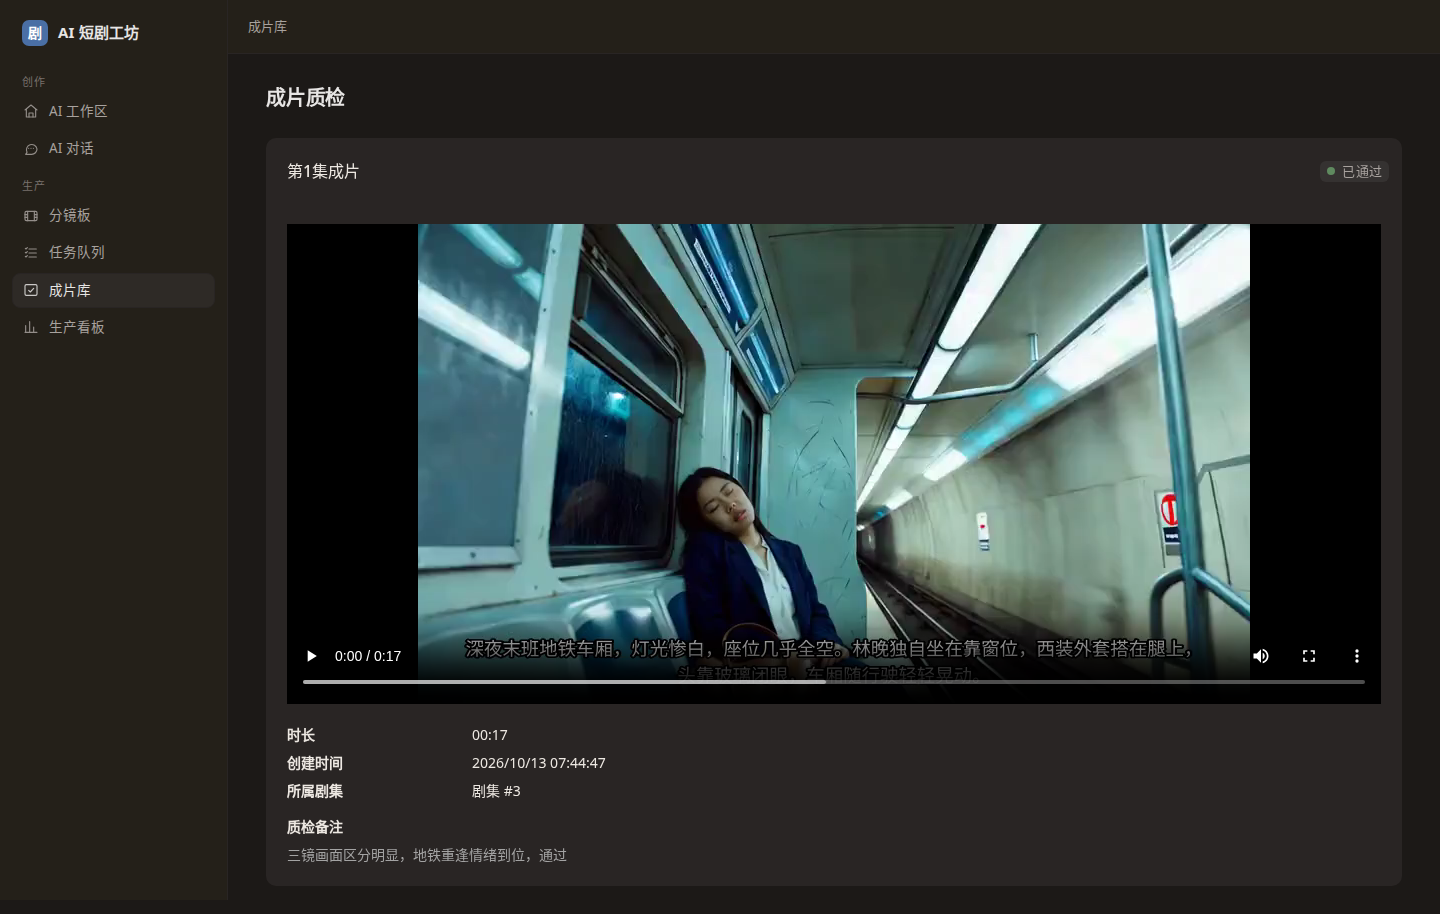
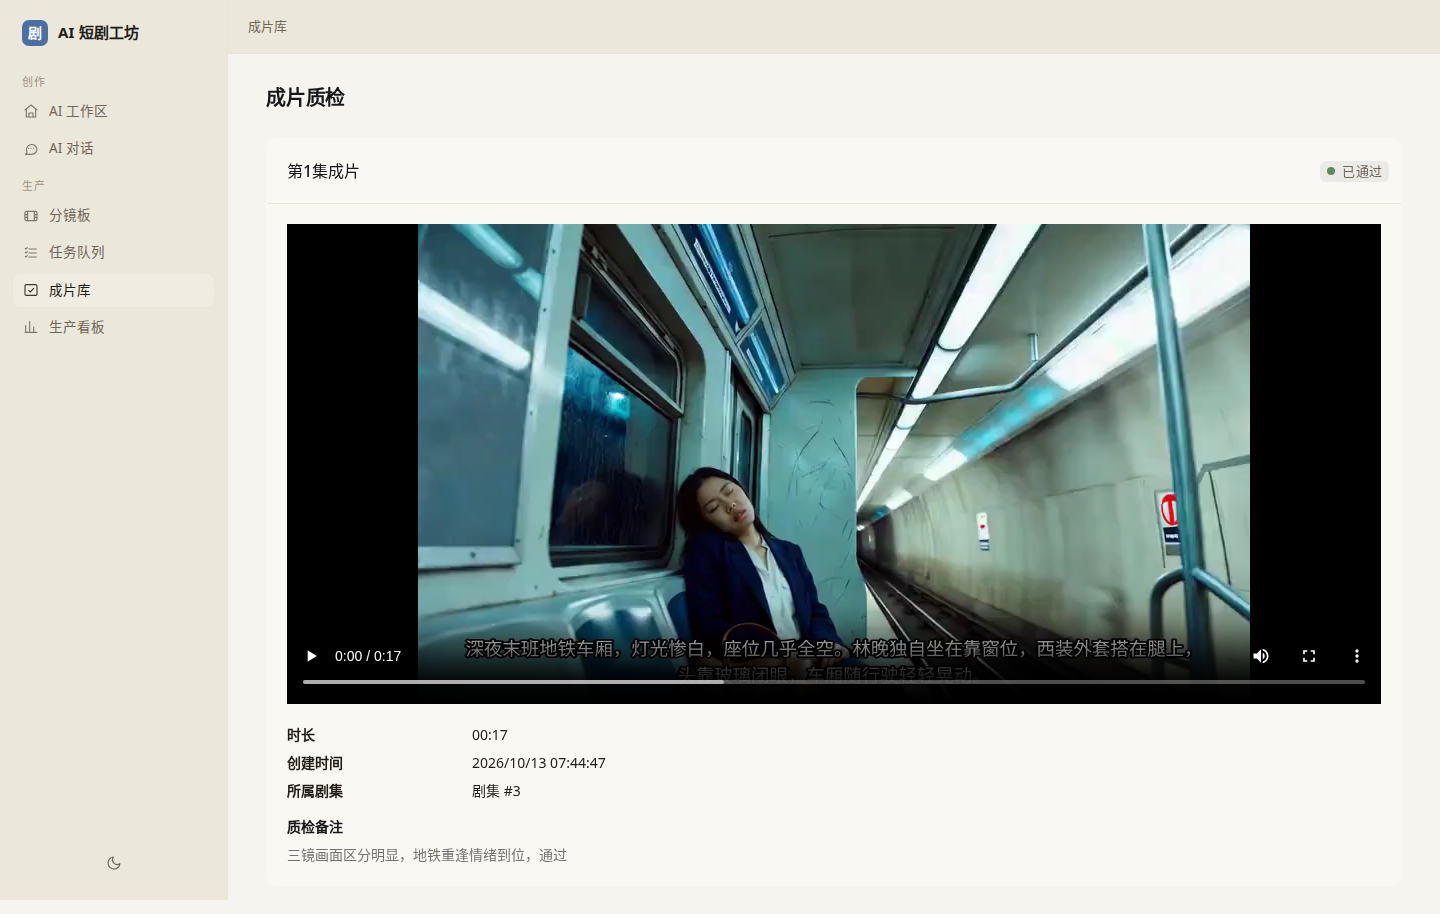
feat(drama-factory): 默认亮色暖纸主题——深色保留可切换
- data-bs-theme 默认 light；深色暖炭主题完整保留
- 亮色走暖纸路线（对标 Claude 浅色）：暖纸底 #F5F4EE、深一档奶油侧边栏、
  几乎无边框、靠明度微差分层；正文对比度 ~14:1
- 侧边栏底部太阳/月亮切换钮，localStorage('df-theme') 持久化；
  <head> 内联预置脚本防闪烁
- app.css 新增 [data-bs-theme=light] 变量体系；
  theme.css 新增 Tabler 亮色暖化覆盖
- 7 页亮色重截亲眼验收（真实数据《最后一班地铁》），
  深色抽查 2 页无回归；零 backdrop-filter
- mvn test 37/38：testFullPipeline 单跑通过（有/无本改动各一次），
  属 flaky/与 v2.3 后端状态相关，非本轮前端改动导致

diff --git a/drama-factory/src/main/resources/static/shell.js b/drama-factory/src/main/resources/static/shell.js
@@ -17,8 +17,18 @@
     search: '<svg viewBox="0 0 24 24" fill="none" stroke="currentColor" stroke-width="1.7" stroke-linecap="round"><circle cx="11" cy="11" r="7"/><path d="m20 20-3.5-3.5"/></svg>',
     plus: '<svg viewBox="0 0 24 24" fill="none" stroke="currentColor" stroke-width="1.7" stroke-linecap="round"><path d="M12 5v14M5 12h14"/></svg>',
     send: '<svg viewBox="0 0 24 24" fill="none" stroke="currentColor" stroke-width="1.7" stroke-linecap="round" stroke-linejoin="round"><path d="m4 11 16-7-7 16-2.5-6.5L4 11z"/></svg>',
-    spark: '<svg viewBox="0 0 24 24" fill="none" stroke="currentColor" stroke-width="1.7" stroke-linecap="round" stroke-linejoin="round"><path d="M12 3v4M12 17v4M3 12h4M17 12h4M6 6l2.5 2.5M15.5 15.5 18 18M18 6l-2.5 2.5M8.5 15.5 6 18"/></svg>'
+    spark: '<svg viewBox="0 0 24 24" fill="none" stroke="currentColor" stroke-width="1.7" stroke-linecap="round" stroke-linejoin="round"><path d="M12 3v4M12 17v4M3 12h4M17 12h4M6 6l2.5 2.5M15.5 15.5 18 18M18 6l-2.5 2.5M8.5 15.5 6 18"/></svg>',
+    sun: '<svg viewBox="0 0 24 24" fill="none" stroke="currentColor" stroke-width="1.7" stroke-linecap="round" stroke-linejoin="round"><circle cx="12" cy="12" r="4"/><line x1="12" y1="2" x2="12" y2="4.5"/><line x1="12" y1="19.5" x2="12" y2="22"/><line x1="2" y1="12" x2="4.5" y2="12"/><line x1="19.5" y1="12" x2="22" y2="12"/><line x1="4.9" y1="4.9" x2="6.7" y2="6.7"/><line x1="17.3" y1="17.3" x2="19.1" y2="19.1"/><line x1="4.9" y1="19.1" x2="6.7" y2="17.3"/><line x1="17.3" y1="6.7" x2="19.1" y2="4.9"/></svg>',
+    moon: '<svg viewBox="0 0 24 24" fill="none" stroke="currentColor" stroke-width="1.7" stroke-linecap="round" stroke-linejoin="round"><path d="M21 12.8A9 9 0 1 1 11.2 3a7 7 0 0 0 9.8 9.8z"/></svg>'
   };
+
+  /* ---- 主题切换：深色显示太阳（点按切亮色），亮色显示月亮（点按切深色） ---- */
+  function renderThemeIcon() {
+    var btn = document.getElementById('themeToggle');
+    if (!btn) return;
+    var t = document.documentElement.getAttribute('data-bs-theme');
+    btn.innerHTML = (t === 'dark') ? ICONS.sun : ICONS.moon;
+  }
 
   var NAV = [
     { id: 'index', href: '/index.html', label: 'AI 工作区', icon: 'home', kbd: 'G H' },
@@ -65,7 +75,8 @@
       '<div class="sidebar-label">生产</div>' +
       '<nav class="sidebar-nav">' +
         navLink(NAV[2], cur) + navLink(NAV[3], cur) + navLink(NAV[4], cur) + navLink(NAV[5], cur) +
-      '</nav>';
+      '</nav>' +
+      '<div class="sidebar-footer"><button id="themeToggle" class="theme-toggle" title="切换亮色/深色" aria-label="切换主题"></button></div>';
 
     /* 主列 */
     var main = document.createElement('div');
@@ -95,6 +106,18 @@
       if (n.nodeName === 'SCRIPT') { body.appendChild(n); }
       else { content.appendChild(n); }
     });
+
+    /* 主题切换：翻转 data-bs-theme 并持久化到 localStorage */
+    var themeToggle = document.getElementById('themeToggle');
+    if (themeToggle) {
+      themeToggle.onclick = function () {
+        var next = (document.documentElement.getAttribute('data-bs-theme') === 'dark') ? 'light' : 'dark';
+        document.documentElement.setAttribute('data-bs-theme', next);
+        try { localStorage.setItem('df-theme', next); } catch (e) {}
+        renderThemeIcon();
+      };
+    }
+    renderThemeIcon();
   }
 
   function navLink(n, cur) {

diff --git a/drama-factory/src/main/resources/static/app.css b/drama-factory/src/main/resources/static/app.css
@@ -604,3 +604,28 @@ tr:hover .row-actions .secondary-action,tr:focus-within .row-actions .secondary-
   font-size: 12px;
   color: var(--text-3);
 }
+
+/* ---- 亮色暖纸主题（默认）：对标 Claude 浅色暖纸 ---- */
+[data-bs-theme="light"] {
+  --bg: #F5F4EE;
+  --bg-elev: #EBE7DB;
+  --surface: #FAF8F3;
+  --surface-2: #F0ECE2;
+  --border: #E2DCCF;
+  --border-soft: #EAE5D8;
+  --text: #211C15;
+  --text-2: #6F6558;
+  --text-3: #9C9284;
+  --accent: #4a6fa5;
+  --accent-hover: #3E5F92;
+  --accent-soft: rgba(74, 111, 165, .12);
+  --green: #4E7A51;
+  --amber: #9E742E;
+  --red: #A6493F;
+}
+
+/* ---- 主题切换钮（侧边栏底部） ---- */
+.sidebar-footer{margin-top:auto;padding:10px 10px 4px;border-top:1px solid var(--border-soft);}
+.theme-toggle{width:100%;display:flex;align-items:center;justify-content:center;gap:8px;padding:8px;border-radius:8px;background:transparent;border:1px solid transparent;color:var(--text-2);cursor:pointer;font-size:13px;}
+.theme-toggle:hover{background:var(--surface);color:var(--text);}
+.theme-toggle svg{width:16px;height:16px;}

diff --git a/drama-factory/src/main/resources/static/theme.css b/drama-factory/src/main/resources/static/theme.css
@@ -52,3 +52,23 @@
   object-fit: cover;
   display: block;
 }
+
+/* ---- 亮色暖纸：Tabler 变量暖化 ---- */
+[data-bs-theme="light"] {
+  --tblr-body-bg: #F5F4EE;
+  --tblr-body-bg-rgb: 245, 244, 238;
+  --tblr-body-color: #211C15;
+  --tblr-body-color-rgb: 33, 28, 21;
+  --tblr-bg-surface: #FAF8F3;
+  --tblr-border-color: #E2DCCF;
+  --tblr-muted: #6F6558;
+  --tblr-muted-rgb: 111, 101, 88;
+  --tblr-primary: #4a6fa5;
+  --tblr-primary-rgb: 74, 111, 165;
+  --tblr-success: #4E7A51;
+  --tblr-success-rgb: 78, 122, 81;
+  --tblr-danger: #A6493F;
+  --tblr-danger-rgb: 166, 73, 63;
+  --tblr-warning: #9E742E;
+  --tblr-warning-rgb: 158, 116, 46;
+}

diff --git a/drama-factory/src/main/resources/static/tasks.html b/drama-factory/src/main/resources/static/tasks.html
@@ -1,6 +1,7 @@
 <!DOCTYPE html>
-<html lang="zh-CN" data-bs-theme="dark">
+<html lang="zh-CN" data-bs-theme="light">
 <head>
+<script>try{var t=localStorage.getItem('df-theme');document.documentElement.setAttribute('data-bs-theme',t==='dark'?'dark':'light');}catch(e){document.documentElement.setAttribute('data-bs-theme','light');}</script>
   <meta charset="UTF-8">
   <meta name="viewport" content="width=device-width, initial-scale=1.0">
   <title>任务队列 · AI 短剧工坊</title>

diff --git a/drama-factory/src/main/resources/static/pipeline.html b/drama-factory/src/main/resources/static/pipeline.html
@@ -1,7 +1,8 @@
 
 <!DOCTYPE html>
-<html lang="zh-CN" data-bs-theme="dark">
+<html lang="zh-CN" data-bs-theme="light">
 <head>
+<script>try{var t=localStorage.getItem('df-theme');document.documentElement.setAttribute('data-bs-theme',t==='dark'?'dark':'light');}catch(e){document.documentElement.setAttribute('data-bs-theme','light');}</script>
 <meta charset="UTF-8">
 <meta name="viewport" content="width=device-width, initial-scale=1.0">
 <title>生产看板 · AI 短剧工坊</title>

diff --git a/drama-factory/src/main/resources/static/qc.html b/drama-factory/src/main/resources/static/qc.html
@@ -1,7 +1,8 @@
 
 <!DOCTYPE html>
-<html lang="zh-CN" data-bs-theme="dark">
+<html lang="zh-CN" data-bs-theme="light">
 <head>
+<script>try{var t=localStorage.getItem('df-theme');document.documentElement.setAttribute('data-bs-theme',t==='dark'?'dark':'light');}catch(e){document.documentElement.setAttribute('data-bs-theme','light');}</script>
 <meta charset="UTF-8">
 <meta name="viewport" content="width=device-width, initial-scale=1.0">
 <title>成片质检 · AI 短剧工坊</title>

diff --git a/drama-factory/src/main/resources/static/index.html b/drama-factory/src/main/resources/static/index.html
@@ -1,6 +1,7 @@
 <!DOCTYPE html>
-<html lang="zh-CN" data-bs-theme="dark">
+<html lang="zh-CN" data-bs-theme="light">
 <head>
+<script>try{var t=localStorage.getItem('df-theme');document.documentElement.setAttribute('data-bs-theme',t==='dark'?'dark':'light');}catch(e){document.documentElement.setAttribute('data-bs-theme','light');}</script>
 <meta charset="UTF-8">
 <meta name="viewport" content="width=device-width, initial-scale=1.0">
 <title>AI 工作区 · AI 短剧工坊</title>

diff --git a/drama-factory/src/main/resources/static/storyboard.html b/drama-factory/src/main/resources/static/storyboard.html
@@ -1,7 +1,8 @@
 
 <!DOCTYPE html>
-<html lang="zh-CN" data-bs-theme="dark">
+<html lang="zh-CN" data-bs-theme="light">
 <head>
+<script>try{var t=localStorage.getItem('df-theme');document.documentElement.setAttribute('data-bs-theme',t==='dark'?'dark':'light');}catch(e){document.documentElement.setAttribute('data-bs-theme','light');}</script>
 <meta charset="UTF-8">
 <meta name="viewport" content="width=device-width, initial-scale=1.0">
 <title>分镜板 · AI 短剧工坊</title>

diff --git a/drama-factory/src/main/resources/static/finals.html b/drama-factory/src/main/resources/static/finals.html
@@ -1,6 +1,7 @@
 <!DOCTYPE html>
-<html lang="zh-CN" data-bs-theme="dark">
+<html lang="zh-CN" data-bs-theme="light">
 <head>
+<script>try{var t=localStorage.getItem('df-theme');document.documentElement.setAttribute('data-bs-theme',t==='dark'?'dark':'light');}catch(e){document.documentElement.setAttribute('data-bs-theme','light');}</script>
 <meta charset="UTF-8">
 <meta name="viewport" content="width=device-width, initial-scale=1.0">
 <title>成片库 · AI 短剧工坊</title>

diff --git a/drama-factory/src/main/resources/static/chat.html b/drama-factory/src/main/resources/static/chat.html
@@ -1,6 +1,7 @@
 <!doctype html>
-<html lang="zh-CN" data-bs-theme="dark">
+<html lang="zh-CN" data-bs-theme="light">
 <head>
+<script>try{var t=localStorage.getItem('df-theme');document.documentElement.setAttribute('data-bs-theme',t==='dark'?'dark':'light');}catch(e){document.documentElement.setAttribute('data-bs-theme','light');}</script>
 <meta charset="utf-8">
 <meta name="viewport" content="width=device-width, initial-scale=1">
 <title>AI 对话 · AI 短剧工坊</title>

diff --git a/drama-factory/docs/DESIGN.md b/drama-factory/docs/DESIGN.md
@@ -53,3 +53,24 @@
 | `--tblr-warning` / `-rgb` | `#f59f00` 亮橙 | `#c98a3f`（201,138,63） | 赭橙，与暖调一致 |
 
 **验收**：5 页重截亲眼对比，AI 味消除；WCAG 正文对比度全部 ≥4.5:1；全站零 `backdrop-filter`（注释文本除外）；JS 零错误。
+
+## 七、默认亮色暖纸主题（用户指令"默认亮色吧"）
+
+- `data-bs-theme` 默认 `light`；深色暖炭主题完整保留，侧边栏底部太阳/月亮切换钮，`localStorage('df-theme')` 记住选择；`<head>` 内联预置脚本防闪烁。
+- 亮色走暖纸路线（对标 Claude 浅色，见 docs/UI-RESEARCH.md 2.2）：暖纸底 `#F5F4EE`（非纯白）、侧边栏深一档奶油色、几乎无边框、靠明度微差分层。
+
+| 变量 | 深色值 | 亮色值 | 说明 |
+|---|---|---|---|
+| `--bg` | `#1c1917` | `#F5F4EE` | 暖纸底，拒绝冷纯白 |
+| `--bg-elev` | `#242019` | `#EBE7DB` | 侧边栏/顶栏深一档奶油 |
+| `--surface` | `#292524` | `#FAF8F3` | 卡片，比页面亮半档 |
+| `--surface-2` | `#2e2a26` | `#F0ECE2` |  |
+| `--border` / `--border-soft` | `#2e2a26` / `#292524` | `#E2DCCF` / `#EAE5D8` | 发丝低对比 |
+| `--text` | `#e7e5e4` | `#211C15` | 暖墨正文，对比度 ~14:1 ✅ |
+| `--text-2` | `#a8a29e` | `#6F6558` | 次要，~5.7:1 ✅ |
+| `--text-3` | `#78716c` | `#9C9284` | 辅助装饰 |
+| `--accent` / `--accent-hover` | `#4a6fa5` / `#5a7fb5` | `#4a6fa5` / `#3E5F92` | 主行动点专用；hover 亮底加深 |
+| `--green` / `--amber` / `--red` | `#5f8a5f` / `#b98a3e` / `#b0564a` | `#4E7A51` / `#9E742E` / `#A6493F` | 纸面加深保证对比度 |
+| `--tblr-body-bg` / `--tblr-body-color` / `--tblr-bg-surface` / `--tblr-border-color` | 见第六节 | `#F5F4EE` / `#211C15` / `#FAF8F3` / `#E2DCCF` | Tabler 暖化 |
+
+**验收**：7 页亮色重截亲眼验收（真实数据《最后一班地铁》）；深色抽查 2 页无回归；全站零 `backdrop-filter`。
